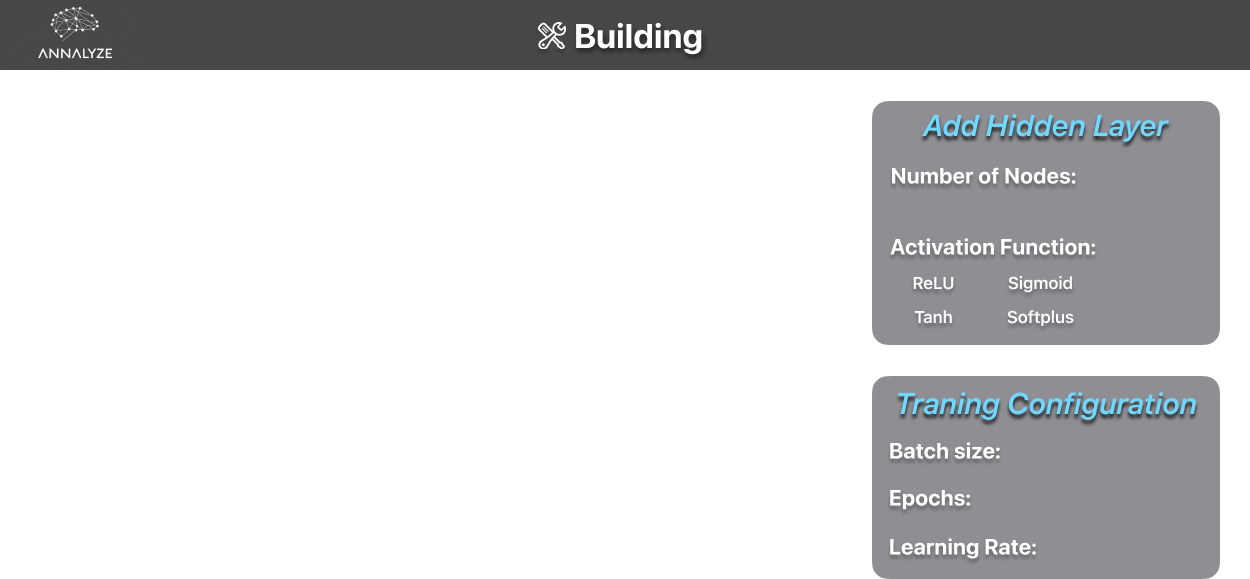
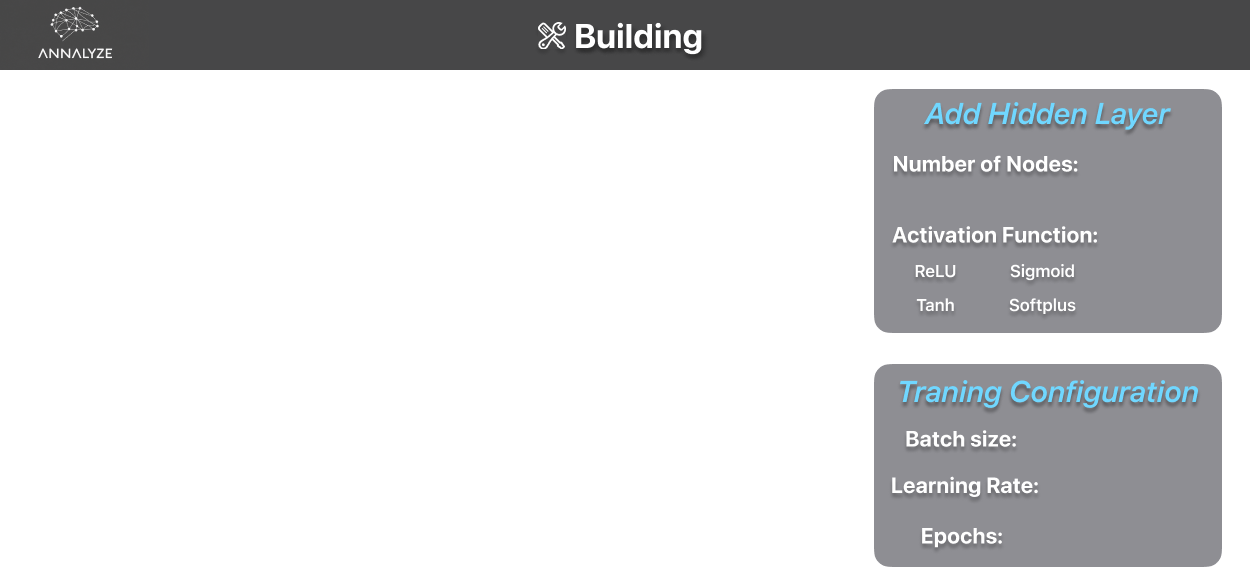
complete visualise network building page

diff --git a/UI/BuildingScreen.rb b/UI/BuildingScreen.rb
@@ -1,10 +1,171 @@
 class BuildingScreen
-
+    attr_accessor :nodes_per_layer, :activations, :batch_size, :learning_rate, :epochs
+    def initialize()
+        @nodes_per_layer = []
+        @activations = []
+        @batch_size = 64
+        @learning_rate = 0.05
+        @epochs = 20
+    end
 end
 
-def render_building_screen(screen)
+def create_radio_activations(selected_value = Activation::RELU)
+    selected_value = Activation::RELU if selected_value.nil?
+    btn_manager = ButtonManager.new(type: 'radio')
+
+    relu_btn = Button.new(
+        x: 900, y: 271,
+        selectedColor: "aqua",
+        buttonManager: btn_manager,
+        size: 8
+    )
+    relu_btn.value = Activation::RELU
+
+    sigmoid_btn = Button.new(
+        x: 995, y: 271,
+        selectedColor: "aqua",
+        buttonManager: btn_manager,
+        size: 8
+    )
+    sigmoid_btn.value = Activation::SIGMOID
+
+    tanh_btn = Button.new(
+        x: 900, y: 305,
+        selectedColor: "aqua",
+        buttonManager: btn_manager,
+        size: 8
+    )
+    tanh_btn.value = Activation::TANH
+
+    softplus_btn = Button.new(
+        x: 995, y: 305,
+        selectedColor: "aqua",
+        buttonManager: btn_manager,
+        size: 8
+    )
+    softplus_btn.value = Activation::SOFTPLUS
+
+    btn_manager.buttons.each do |btn|
+        if btn.value == selected_value
+            btn_manager.select(btn)
+        end
+    end
+    return btn_manager
+end
+
+def remove_radio_activations(activations_btn)
+    activations_btn.buttons.each do |btn|
+        btn.remove
+    end
+end
+
+def get_selected_activation(activations_btn)
+    activations_btn.selected.each do |button|
+        return button.value.to_i
+    end
+end
+
+def draw_network_building_screen(cur_screen, building_screen)
+    building_screen.nodes_per_layer.each_with_index do |num_nodes, i|
+        # Layer index
+        Text.new(
+            "Layer #{i + 1}",
+            x: 111 + i * 180, y: 74,
+            font: './fonts/SF-Pro-Display-Bold.otf',
+            size: 24,
+            color: 'aqua'
+        )
+
+        # Layer activations
+        activation_name = nil
+        x_minus = 0
+        case building_screen.activations[i]
+        when Activation::RELU
+            activation_name = 'ReLU'
+        when Activation::SIGMOID
+            activation_name = 'Sigmoid'
+            x_minus = 9
+        when Activation::TANH
+            activation_name = 'Tanh'
+            x_minus = -2
+        when Activation::SOFTPLUS
+            activation_name = 'Softplus'
+            x_minus = 9
+        end
+
+        Text.new(
+            activation_name,
+            x: 124 + i * 180 - x_minus, y: 109,
+            font: './fonts/SF-Pro-Display-Medium.otf',
+            size: 20,
+            color: 'white'
+        )
+
+        # Border
+        Image.new(
+            './images/BuildingScreen/Layer_border.png',
+            x: 115 + i * 180, y: 140
+        )
+
+        y_start = 160 + (215 - (min(num_nodes, 11) * 40 - 10) / 2.0)
+        x = 134 + i * 180
+
+        min(num_nodes, 11).times do |j|
+            if num_nodes > 11 and j == 5
+                Image.new(
+                    './images/BuildingScreen/More_nodes.png',
+                    x: x + 12, y: y_start + j * 40
+                )
+            else
+                Square.new(
+                    x: x, y: y_start + j * 40,
+                    size: 30,
+                    color: 'white'
+                )
+            end
+        end
+
+        # Number of nodes
+        num_nodes_text = num_nodes.to_s
+        x_minus = 0
+        case num_nodes_text.length
+        when 2
+            x_minus = 6
+        when 3
+            x_minus = 15
+        end
+        Text.new(
+            num_nodes.to_s,
+            x: 140 + i * 180 - x_minus, y: 611,
+            font: './fonts/SF-Pro-Display-Semibold.otf',
+            size: 26,
+            color: 'white'
+        )
+
+        # Remove button
+        remove_btn = create_button(
+            './images/BuildingScreen/Remove_button.png',
+            123 + i * 180, 667, 52, 32, cur_screen, ScreenType::BUILDING_SCREEN
+        )
+
+        cur_screen.mouse_events << on(:mouse_down) do |event|
+            case cur_screen.type
+            when ScreenType::BUILDING_SCREEN
+                if is_clicked?(remove_btn, event)
+                    building_screen.nodes_per_layer.delete_at(i)
+                    building_screen.activations.delete_at(i)
+                    cur_screen.render_again = true
+                end
+            end
+        end
+    end
+end
+
+def render_building_screen(cur_screen, building_screen)
     clear()
+    draw_network_building_screen(cur_screen, building_screen)
     
+    # Background
     Image.new(
         './images/BuildingScreen/Building_screen_background.png',
         x: 0, y: 0
@@ -12,21 +173,45 @@ def render_building_screen(screen)
 
     start_btn = create_button(
         './images/BuildingScreen/Start_button.png',
-        981, 610, 133, 58, screen, ScreenType::BUILDING_SCREEN
+        981, 598, 133, 58, cur_screen, ScreenType::BUILDING_SCREEN
     )
 
     home_btn = create_button(
         './images/BuildingScreen/Home_button.png',
-        1171, 10, 55, 47, screen, ScreenType::BUILDING_SCREEN
+        1171, 10, 55, 47, cur_screen, ScreenType::BUILDING_SCREEN
     )
 
-    on(:mouse_down) do |event|
-        case screen.current_type
+    # ANN configs buttons
+    add_btn = create_button(
+        './images/BuildingScreen/Add_button.png',
+        1138, 186, 64, 68, cur_screen, ScreenType::BUILDING_SCREEN
+    )
+    activations_btn = create_radio_activations(building_screen.activations[-1] || Activation::RELU)
+    num_nodes_box = create_text_box(895, 184, 180, 200, building_screen.nodes_per_layer[-1] || 16)
+    batch_size_box = create_text_box(1057, 425, 130, 200, building_screen.batch_size)
+    learning_rate_box = create_text_box(1057, 471, 130, 200, building_screen.learning_rate)
+    epochs_box = create_text_box(1057, 522, 130, 200, building_screen.epochs)
+
+    cur_screen.mouse_events << on(:mouse_down) do |event|
+        case cur_screen.type
         when ScreenType::BUILDING_SCREEN
             if is_clicked?(home_btn, event)
-                screen.current_type = ScreenType::MAIN_MENU
+                change_screen(cur_screen, ScreenType::MAIN_MENU)
+            elsif is_clicked?(add_btn, event) and building_screen.nodes_per_layer.length < 4
+                building_screen.nodes_per_layer << num_nodes_box.value.to_i
+                building_screen.activations << get_selected_activation(activations_btn)
+                cur_screen.render_again = true
+            elsif is_clicked?(start_btn, event)
+                building_screen.batch_size = batch_size_box.value.to_i
+                building_screen.learning_rate = learning_rate_box.value.to_f
+                building_screen.epochs = epochs_box.value.to_i
+
+                p building_screen.nodes_per_layer
+                p building_screen.activations
+                p building_screen.batch_size
+                p building_screen.learning_rate
+                p building_screen.epochs
             end
         end
     end
 end
-

diff --git a/UI/ScreenEngine.rb b/UI/ScreenEngine.rb
@@ -9,11 +9,18 @@ module ScreenType
     BUILDING_SCREEN = 1
 end
 
-class Screen
-    attr_accessor :current_type
+class CurrentScreen
+    attr_accessor :type, :render_again, :mouse_events
     def initialize()
-        @current_type = ScreenType::MAIN_MENU
+        @type = ScreenType::MAIN_MENU
+        @render_again = true
+        @mouse_events = []
     end
+end
+
+def change_screen(cur_screen, new_screen)
+    cur_screen.type = new_screen
+    cur_screen.render_again = true
 end
 
 def start_window()
@@ -22,21 +29,26 @@ def start_window()
     set height: 720
     set background: "#252526"
 
-    prev_screen = nil
-    screen = Screen.new()
+    cur_screen = CurrentScreen.new()
+
+    building_screen = BuildingScreen.new()
 
     update do
-        if prev_screen != screen.current_type
-            case screen.current_type
+        if cur_screen.render_again
+            cur_screen.render_again = false
+            cur_screen.mouse_events = remove_all_events(cur_screen.mouse_events)
+            case cur_screen.type
             when ScreenType::MAIN_MENU
-                render_main_menu(screen)
+                render_main_menu(cur_screen)
             when ScreenType::BUILDING_SCREEN
-                render_building_screen(screen)
+                render_building_screen(cur_screen, building_screen)
             end
-            prev_screen = screen.current_type
         end
     end
 
-    # create_button('./images/BuildingScreen/Start_button.png', 221, 297, 266.0 /2, 58)
+    # create_button(
+    #     './images/BuildingScreen/Remove_button.png', 
+    #     221, 297, 104.0 /2, 32, cur_screen, ScreenType::MAIN_MENU
+    # )
     show()
 end

diff --git a/UI/Utils.rb b/UI/Utils.rb
@@ -1,4 +1,4 @@
-def create_button(file_path, x, y, width, height, screen, screen_type)
+def create_button(file_path, x, y, width, height, cur_screen, screen_type)
     btn = Sprite.new(
         file_path,
         x: x, y: y,
@@ -11,8 +11,8 @@ def create_button(file_path, x, y, width, height, screen, screen_type)
         loop: true
     )
 
-    on :mouse_move do |event|
-        case screen.current_type
+    cur_screen.mouse_events << on(:mouse_move) do |event|
+        case cur_screen.type
         when screen_type
             x_mouse, y_mouse = event.x, event.y
             if x_mouse.between?(x, x + width) and y_mouse.between?(y, y + height)
@@ -24,6 +24,19 @@ def create_button(file_path, x, y, width, height, screen, screen_type)
     end
 
     return btn
+end
+
+def create_text_box(x, y, width, height, default_value)
+    text_box = InputBox.new(
+        x: x, y: y,
+        value: default_value.to_s,
+        height: height, length: width,
+        size: 20,
+        color: 'white', inactiveTextColor: 'black',
+        activeColor: 'white', activeTextColor: 'black'
+    )
+
+    return text_box
 end
 
 def remove_all_events(events)

diff --git a/UI/MainMenu.rb b/UI/MainMenu.rb
@@ -1,6 +1,6 @@
 
 
-def render_main_menu(screen)
+def render_main_menu(cur_screen)
     clear()
     
     Image.new(
@@ -10,20 +10,20 @@ def render_main_menu(screen)
 
     build_btn = create_button(
         './images/MainMenu/Build_button.png',
-        221, 297, 676.0 / 2, 221, screen, ScreenType::MAIN_MENU
+        221, 297, 676.0 / 2, 221, cur_screen, ScreenType::MAIN_MENU
     )
     
     infer_btn = create_button(
         './images/MainMenu/Inference_button.png',
-        692, 297, 676.0 / 2, 221, screen, ScreenType::MAIN_MENU
+        692, 297, 676.0 / 2, 221, cur_screen, ScreenType::MAIN_MENU
     )
     
-    on(:mouse_down) do |event|
+    cur_screen.mouse_events << on(:mouse_down) do |event|
         x, y = event.x, event.y
-        case screen.current_type
+        case cur_screen.type
         when ScreenType::MAIN_MENU
             if is_clicked?(build_btn, event)
-                screen.current_type = ScreenType::BUILDING_SCREEN
+                change_screen(cur_screen, ScreenType::BUILDING_SCREEN)
             elsif is_clicked?(infer_btn, event)
                 puts "Inference button clicked!"
             end

diff --git a/utils/test.rb b/utils/test.rb
@@ -1,13 +1,5 @@
 require 'ruby2d'
 
-window1 = Window.new(width: 640, height: 480)
-window1.set background: 'red'
+a = [1, 2, 3, 4, 5]
 
-a = Sprite.new(
-    './images/BuildingScreen/Building_screen_background.png',
-    x: 0, y: 0, clip_width: 22
-)
-
-p a.clip_width
-
-window1.show
+p a[-1]
